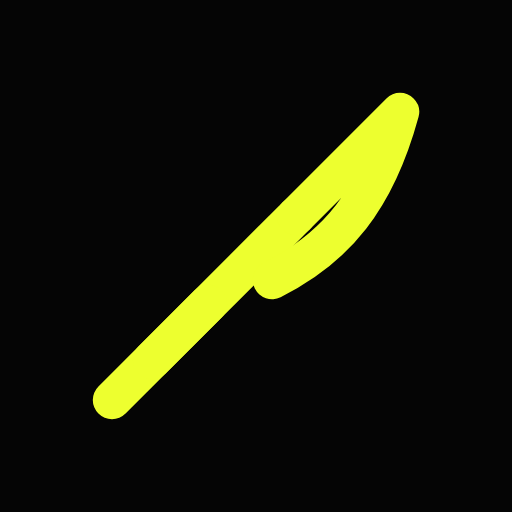
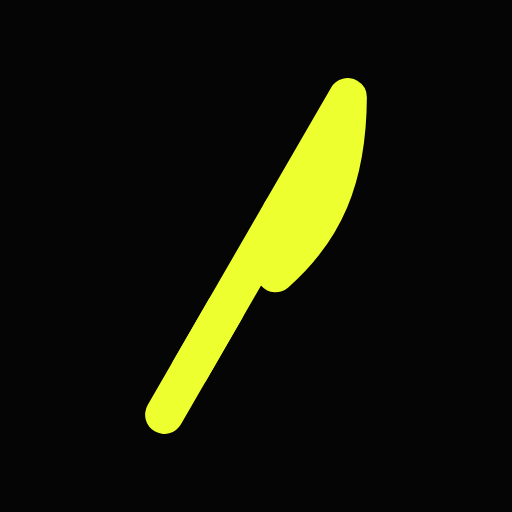
website: adopt the cut logotype and the rotated blade
The logo is now the blade on its tile, rotated 15 degrees so it runs
along a 30 degree cut, next to the word mark set as an inline SVG: the
package name outlined in Space Grotesk Bold, cut through the "a" along
the same line, with the two halves pushed apart and the right one
dropped a little along the cut. The word mark scales with the font size
like the text it replaces; its clipPaths take a per-instance id so the
header and footer can both carry it. The favicon and the OG card use the
same glyph, and the PNG and ICO assets are regenerated from them.

Claude-Session: https://claude.ai/code/session_014vtUbpTh1JuUT1dLpaSm8m

Changed region(s): [[0.1875, 0.1562, 0.8438, 0.8438], [0.4688, 0.4375, 0.5, 0.4688]]

diff --git a/website/lib/components/icons.dart b/website/lib/components/icons.dart
@@ -12,10 +12,11 @@ enum Icon {
   arrow(['M5 12h14', 'm13 6 6 6-6 6']),
   external(['M14 4h6v6', 'M20 4 10 14', 'M18 13v7H4V6h7']),
   terminal(['m4 17 6-6-6-6', 'M12 19h8']),
+  // The blade runs along the 30° cut of the word mark; see [logo].
   ciach([
-    'M3 21 14.5 9.5',
-    'M14.5 9.5 21 3c-1.5 5.5-4 8.5-8 10.5',
-    'M9 15 5.5 18.5',
+    'M6.27 21.92 13.59 9.24',
+    'M13.59 9.24 17.73 2.08c-.03 5.13-1.5 8.32-4.51 10.99',
+    'M10.09 15.31 7.86 19.16',
   ]),
   bolt(['M13 2 4 14h7l-1 8 9-12h-7z']),
   shield(['M12 3 4 6v6c0 5 3.4 8.4 8 9 4.6-.6 8-4 8-9V6z', 'm9 12 2 2 4-4']),
@@ -63,12 +64,66 @@ enum Icon {
   );
 }
 
-/// The ciach word mark: the logo icon next to the package name.
-Component logo({bool large = false}) => span(
+/// The ciach logo: the blade on its tile next to the word mark.
+///
+/// The word mark is the package name set in Space Grotesk Bold and outlined,
+/// then cut along a line 30° off vertical through the "a", with the two halves
+/// pushed apart and the right one dropped a little along the cut. The design
+/// lives in `design/logo/`. The halves are clipped with `<clipPath>`s, which
+/// need document-unique ids, so a page showing the logo twice passes a
+/// different [id] each time.
+Component logo({bool large = false, String id = 'logo'}) => span(
   classes: large ? 'logo logo-large' : 'logo',
   attributes: const {'aria-hidden': 'true'},
   [
-    span(classes: 'logo-mark', [Icon.ciach.build(size: large ? 28 : 20)]),
-    const span(classes: 'logo-text', [.text('ciach')]),
+    span(classes: 'logo-mark', [Icon.ciach.build(size: large ? 30 : 22)]),
+    span(classes: 'logo-text', [wordMark(id: id)]),
   ],
 );
+
+/// The cut "ciach" word mark as an inline SVG, filled with `currentColor` and
+/// sized by the surrounding font size (see `.logo-text svg` in `NavBar`).
+Component wordMark({required String id}) {
+  // One half of the word mark: the letters clipped to one side of the cut,
+  // then moved away from it.
+  Component half(String side, String shift) => Component.element(
+    tag: 'g',
+    attributes: {'transform': shift, 'clip-path': 'url(#$id-$side)'},
+    children: [
+      for (final d in _wordMarkPaths) path(attributes: {'d': d}, const []),
+    ],
+  );
+  Component clip(String side, String points) => Component.element(
+    tag: 'clipPath',
+    id: '$id-$side',
+    children: [polygon(points: points, const [])],
+  );
+  return svg(
+    attributes: const {
+      'viewBox': '-4 -4 309.18 95.36',
+      'fill': 'currentColor',
+      'aria-hidden': 'true',
+      'focusable': 'false',
+    },
+    [
+      Component.element(
+        tag: 'defs',
+        children: [
+          clip('left', '180.31,-40 -40,-40 -40,127.36 83.69,127.36'),
+          clip('right', '180.31,-40 341.18,-40 341.18,127.36 83.69,127.36'),
+        ],
+      ),
+      half('left', 'translate(-1.6 -3.23)'),
+      half('right', 'translate(1.6 3.23)'),
+    ],
+  );
+}
+
+/// The letters c, i, a, c, h of the word mark, in a 301.18×87.36 box.
+const _wordMarkPaths = [
+  'M 30.84 87.36 C 25.08 87.36 19.84 86.16 15.12 83.76 C 10.48 81.36 6.8 77.88 4.08 73.32 C 1.36 68.76 0 63.24 0 56.76 L 0 55.08 C 0 48.6 1.36 43.08 4.08 38.52 C 6.8 33.96 10.48 30.48 15.12 28.08 C 19.84 25.68 25.08 24.48 30.84 24.48 C 36.52 24.48 41.4 25.48 45.48 27.48 C 49.56 29.48 52.84 32.24 55.32 35.76 C 57.88 39.2 59.56 43.12 60.36 47.52 L 45.72 50.64 C 45.4 48.24 44.68 46.08 43.56 44.16 C 42.44 42.24 40.84 40.72 38.76 39.6 C 36.76 38.48 34.24 37.92 31.2 37.92 C 28.16 37.92 25.4 38.6 22.92 39.96 C 20.52 41.24 18.6 43.2 17.16 45.84 C 15.8 48.4 15.12 51.56 15.12 55.32 L 15.12 56.52 C 15.12 60.28 15.8 63.48 17.16 66.12 C 18.6 68.68 20.52 70.64 22.92 72 C 25.4 73.28 28.16 73.92 31.2 73.92 C 35.76 73.92 39.2 72.76 41.52 70.44 C 43.92 68.04 45.44 64.92 46.08 61.08 L 60.72 64.56 C 59.68 68.8 57.88 72.68 55.32 76.2 C 52.84 79.64 49.56 82.36 45.48 84.36 C 41.4 86.36 36.52 87.36 30.84 87.36 Z',
+  'M 73.19 85.68 L 73.19 26.16 L 88.31 26.16 L 88.31 85.68 L 73.19 85.68 Z M 80.75 19.2 C 78.03 19.2 75.71 18.32 73.79 16.56 C 71.95 14.8 71.03 12.48 71.03 9.6 C 71.03 6.72 71.95 4.4 73.79 2.64 C 75.71 0.88 78.03 0 80.75 0 C 83.55 0 85.87 0.88 87.71 2.64 C 89.55 4.4 90.47 6.72 90.47 9.6 C 90.47 12.48 89.55 14.8 87.71 16.56 C 85.87 18.32 83.55 19.2 80.75 19.2 Z',
+  'M 123.55 87.36 C 119.31 87.36 115.51 86.64 112.15 85.2 C 108.79 83.68 106.11 81.52 104.11 78.72 C 102.19 75.84 101.23 72.36 101.23 68.28 C 101.23 64.2 102.19 60.8 104.11 58.08 C 106.11 55.28 108.83 53.2 112.27 51.84 C 115.79 50.4 119.79 49.68 124.27 49.68 L 140.59 49.68 L 140.59 46.32 C 140.59 43.52 139.71 41.24 137.95 39.48 C 136.19 37.64 133.39 36.72 129.55 36.72 C 125.79 36.72 122.99 37.6 121.15 39.36 C 119.31 41.04 118.11 43.24 117.55 45.96 L 103.63 41.28 C 104.59 38.24 106.11 35.48 108.19 33 C 110.35 30.44 113.19 28.4 116.71 26.88 C 120.31 25.28 124.67 24.48 129.79 24.48 C 137.63 24.48 143.83 26.44 148.39 30.36 C 152.95 34.28 155.23 39.96 155.23 47.4 L 155.23 69.6 C 155.23 72 156.35 73.2 158.59 73.2 L 163.39 73.2 L 163.39 85.68 L 153.31 85.68 C 150.35 85.68 147.91 84.96 145.99 83.52 C 144.07 82.08 143.11 80.16 143.11 77.76 L 143.11 77.64 L 140.83 77.64 C 140.51 78.6 139.79 79.88 138.67 81.48 C 137.55 83 135.79 84.36 133.39 85.56 C 130.99 86.76 127.71 87.36 123.55 87.36 Z M 126.19 75.12 C 130.43 75.12 133.87 73.96 136.51 71.64 C 139.23 69.24 140.59 66.08 140.59 62.16 L 140.59 60.96 L 125.35 60.96 C 122.55 60.96 120.35 61.56 118.75 62.76 C 117.15 63.96 116.35 65.64 116.35 67.8 C 116.35 69.96 117.19 71.72 118.87 73.08 C 120.55 74.44 122.99 75.12 126.19 75.12 Z',
+  'M 201.23 87.36 C 195.47 87.36 190.23 86.16 185.51 83.76 C 180.87 81.36 177.19 77.88 174.47 73.32 C 171.75 68.76 170.39 63.24 170.39 56.76 L 170.39 55.08 C 170.39 48.6 171.75 43.08 174.47 38.52 C 177.19 33.96 180.87 30.48 185.51 28.08 C 190.23 25.68 195.47 24.48 201.23 24.48 C 206.91 24.48 211.79 25.48 215.87 27.48 C 219.95 29.48 223.23 32.24 225.71 35.76 C 228.27 39.2 229.95 43.12 230.75 47.52 L 216.11 50.64 C 215.79 48.24 215.07 46.08 213.95 44.16 C 212.83 42.24 211.23 40.72 209.15 39.6 C 207.15 38.48 204.63 37.92 201.59 37.92 C 198.55 37.92 195.79 38.6 193.31 39.96 C 190.91 41.24 188.99 43.2 187.55 45.84 C 186.19 48.4 185.51 51.56 185.51 55.32 L 185.51 56.52 C 185.51 60.28 186.19 63.48 187.55 66.12 C 188.99 68.68 190.91 70.64 193.31 72 C 195.79 73.28 198.55 73.92 201.59 73.92 C 206.15 73.92 209.59 72.76 211.91 70.44 C 214.31 68.04 215.83 64.92 216.47 61.08 L 231.11 64.56 C 230.07 68.8 228.27 72.68 225.71 76.2 C 223.23 79.64 219.95 82.36 215.87 84.36 C 211.79 86.36 206.91 87.36 201.23 87.36 Z',
+  'M 243.58 85.68 L 243.58 1.68 L 258.7 1.68 L 258.7 33.48 L 260.86 33.48 C 261.5 32.2 262.5 30.92 263.86 29.64 C 265.22 28.36 267.02 27.32 269.26 26.52 C 271.58 25.64 274.5 25.2 278.02 25.2 C 282.66 25.2 286.7 26.28 290.14 28.44 C 293.66 30.52 296.38 33.44 298.3 37.2 C 300.22 40.88 301.18 45.2 301.18 50.16 L 301.18 85.68 L 286.06 85.68 L 286.06 51.36 C 286.06 46.88 284.94 43.52 282.7 41.28 C 280.54 39.04 277.42 37.92 273.34 37.92 C 268.7 37.92 265.1 39.48 262.54 42.6 C 259.98 45.64 258.7 49.92 258.7 55.44 L 258.7 85.68 L 243.58 85.68 Z',
+];

diff --git a/website/lib/components/og_card.dart b/website/lib/components/og_card.dart
@@ -40,7 +40,7 @@ class OgCard extends StatelessComponent {
     css('.og-card .logo').styles(fontSize: 2.1.rem),
     css('.og-card .logo-mark')
         .styles(width: 56.px, height: 56.px, radius: .circular(15.px)),
-    css('.og-card .logo-mark svg').styles(width: 30.px, height: 30.px),
+    css('.og-card .logo-mark svg').styles(width: 38.px, height: 38.px),
     css('.og-card .hero-badges').styles(
       margin: .only(top: 34.px, bottom: .zero),
       gap: .all(0.6.rem),

diff --git a/website/lib/components/nav_bar.dart b/website/lib/components/nav_bar.dart
@@ -39,9 +39,9 @@ class NavBar extends StatelessComponent {
       alignItems: .center,
       gap: .all(0.5.rem),
       fontSize: 1.25.rem,
-      fontWeight: .w700,
-      letterSpacing: (-0.03).em,
     ),
+    // The word mark scales with the font size, like the text it replaces.
+    css('.logo-text svg').styles(display: .block, width: .auto, height: 0.8.em),
     css('.logo-mark').styles(
       display: .inlineGrid,
       width: 32.px,

diff --git a/website/lib/components/footer.dart b/website/lib/components/footer.dart
@@ -106,7 +106,7 @@ class SiteFooter extends StatelessComponent {
       ),
       div(classes: 'container footer-grid', [
         div(classes: 'footer-brand', [
-          logo(),
+          logo(id: 'footer-logo'),
           p([
             const .text('Dead code detector for Dart and Flutter. '),
             externalLink(changelogUrl, [.text('v$version')]),
